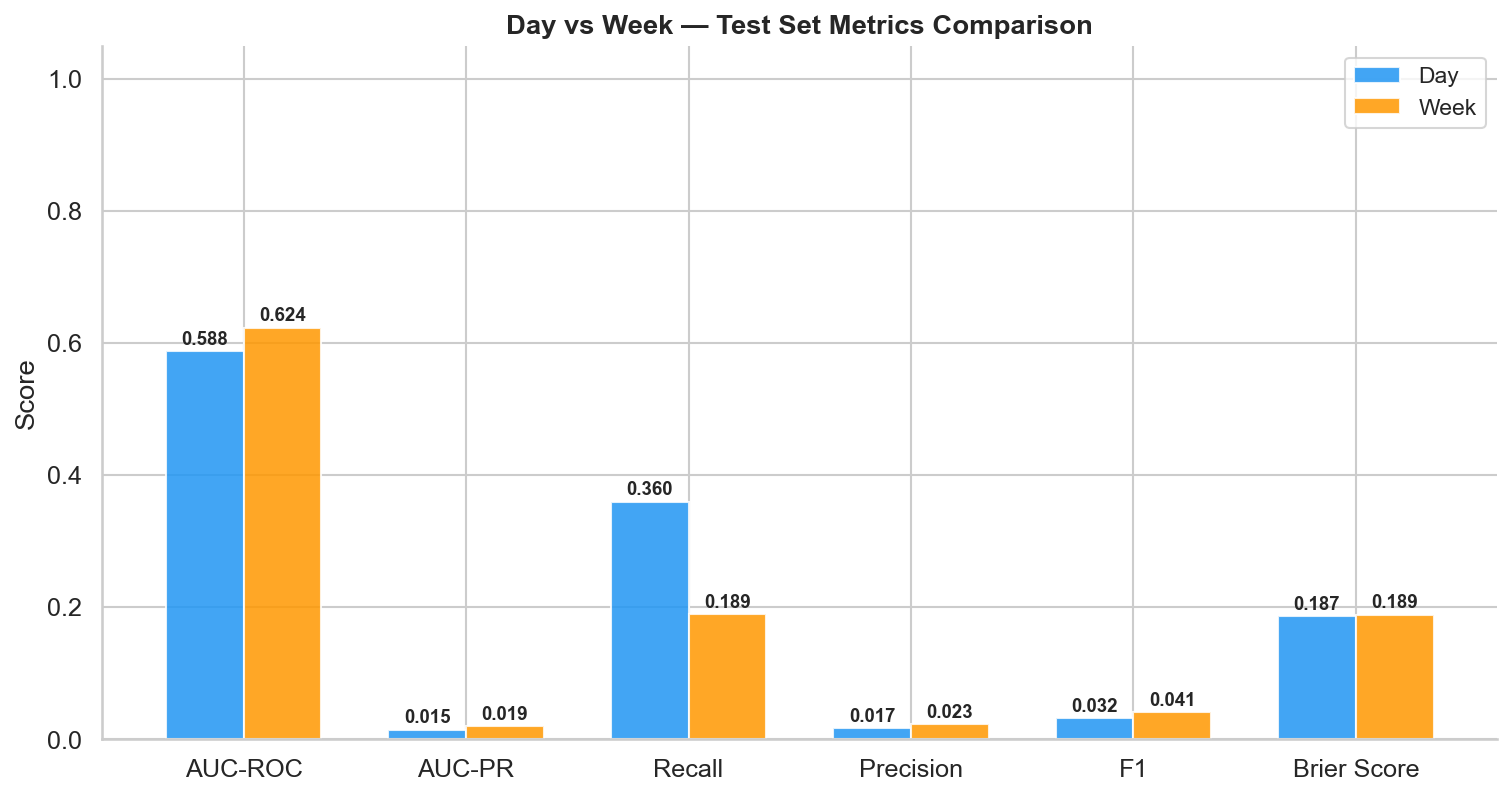
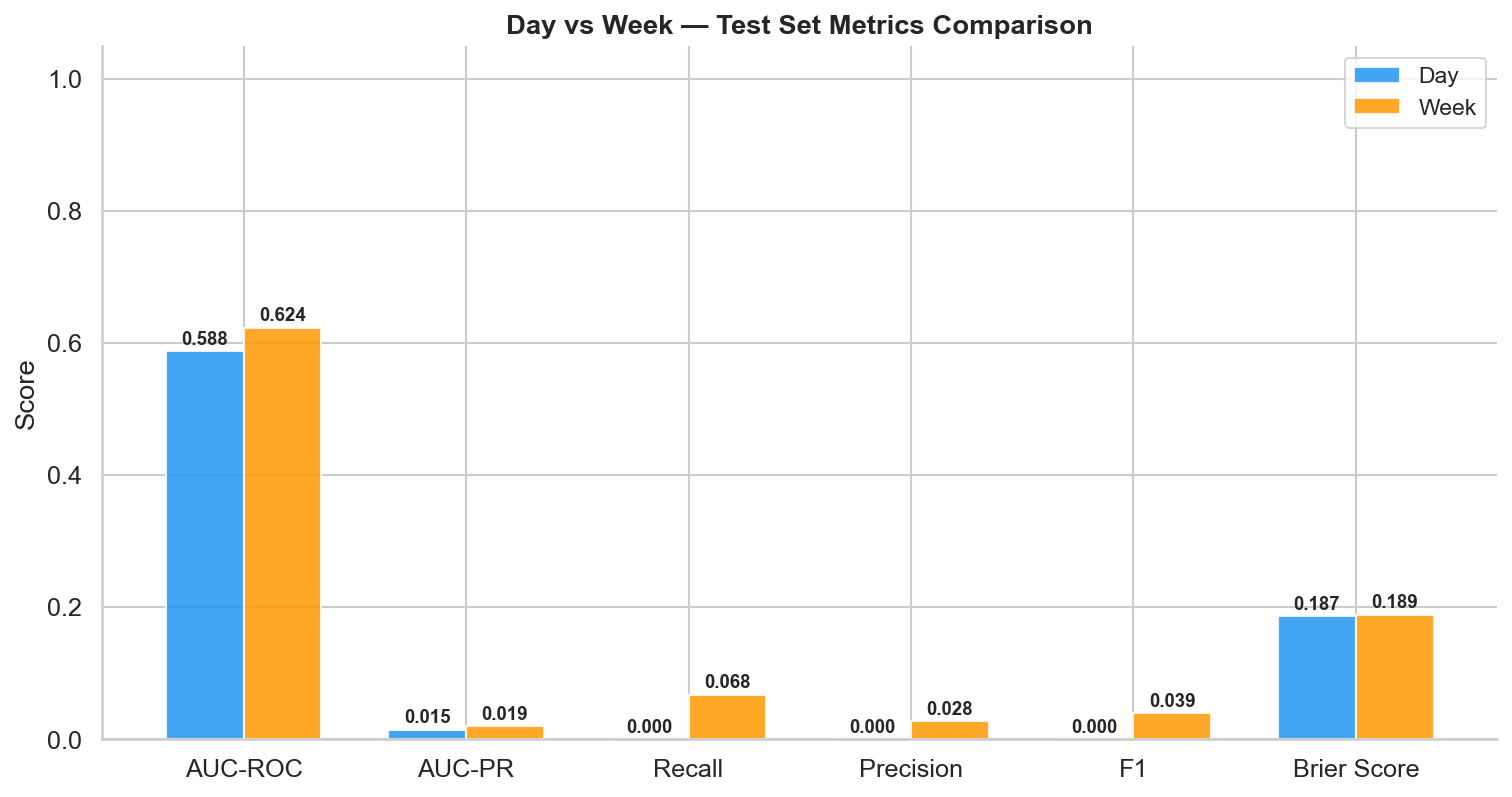
docs: add executive report (#10)
* docs: add executive report

Comprehensive executive report consolidating results from all analysis phases:
- EDA
- preprocessing
- modeling
- SHAP
- fairness
- comparison

Includes:
- metric tables
- paper benchmark comparison
- SHAP interpretability
- fairness audit findings
- references to key figures

* docs: improve description ad fix typo

* docs(report): remove broken ADR link and add note future publication

* docs(report): improve ADR section references summary table, not unpublished file

Changed region(s): [[0.4041, 0.6023, 0.5284, 0.9335], [0.5284, 0.8733, 0.6528, 0.9335], [0.6839, 0.8733, 0.8082, 0.9335]]

diff --git a/reports/REPORT.md b/reports/REPORT.md
@@ -1,0 +1,376 @@
+# Executive Report — Runner Injury Risk Prediction
+
+**Project**: Replication and extension of Lovdal, Den Hartigh & Azzopardi (2021)
+**Date**: April 2026
+**Author**: Alessandro Attene
+
+---
+
+## Abstract
+
+This project replicates and extends the machine learning methodology
+from Lovdal et al. (2021) to predict injury risk in competitive runners
+using GPS-based training load data from 74 elite Dutch athletes (2012–2019).
+Two temporal approaches are compared — **day-level** (7-day rolling windows)
+and **week-level** (3-week aggregations) — using a single tuned XGBoost model
+per approach. The pipeline enforces strict athlete-level separation
+(GroupKFold / GroupShuffleSplit) to prevent data leakage, applies SHAP-based
+interpretability to link predictions to sports science concepts, and includes
+a fairness audit across proxy demographic groups.
+
+Our best result is an **AUC-ROC of 0.624** (week approach), reaching **92.0%**
+of the paper's bagged XGBoost benchmark (0.678). The day approach achieves
+an AUC-ROC of 0.588 (81.2% of the paper's 0.724). Both models struggle with
+the extreme class imbalance (~1.2% injury rate), producing low recall and
+precision at optimal thresholds. The gap with the paper is primarily
+attributable to our use of a single XGBoost model versus the paper's
+100-bag ensemble, and to stricter athlete-level data separation.
+
+---
+
+## Table of Contents
+
+1. [Research Context](#1-research-context)
+2. [Dataset](#2-dataset)
+3. [Methodology](#3-methodology)
+4. [Results](#4-results)
+5. [Comparison to Paper Benchmarks](#5-comparison-to-paper-benchmarks)
+6. [Interpretability (SHAP)](#6-interpretability-shap)
+7. [Fairness Analysis](#7-fairness-analysis)
+8. [Limitations](#8-limitations)
+9. [Future Work](#9-future-work)
+10. [References](#10-references)
+
+---
+
+## 1. Research Context
+
+Overuse injuries are the primary concern in endurance sports. Training load
+monitoring — combining GPS metrics, subjective wellness scores, and
+physiological indicators — is widely used to manage injury risk. Lovdal et al.
+(2021) demonstrated that machine learning models trained on daily and weekly
+training features can predict next-day or next-week injury risk with moderate
+discriminative ability (AUC-ROC 0.724 for day, 0.678 for week) using a
+bagged XGBoost ensemble (100 bags).
+
+This project replicates their core methodology with deliberate simplifications:
+a single tuned XGBoost model (no bagging), stricter athlete-level separation,
+and transparent SHAP-based interpretability — making the pipeline more
+accessible and reproducible while accepting a performance trade-off.
+
+---
+
+## 2. Dataset
+
+| Property | Day approach | Week approach |
+|---|---|---|
+| Source | Lovdal et al. (2021) — elite Dutch runners, 2012–2019 | Same as day approach |
+| Athletes | 74 (masked IDs) | 74 (masked IDs) |
+| Total rows | 42,766 | 42,798 |
+| Features | 70 (7 days x 10 metrics) | 69 (3 weeks x 22 metrics + 3 km ratios) |
+| Target | Binary (0/1) | Continuous → binarized at 0.5 (ADR-002) |
+| Injury rate (test set) | 1.21% | 1.19% |
+| Train set | 36,584 rows | 36,588 rows |
+| Test set | 6,182 rows | 6,210 rows |
+
+**Key features** include total distance (km), training zone distributions
+(z1–z5, t1–t2), perceived exertion, recovery status, strength training
+sessions, and subjective well-being indicators. The week approach additionally
+includes acute-to-chronic km ratios (week 0/1, week 0/2, week 0/(1+2)).
+
+**Sentinel handling** (ADR-007): the original data uses -0.01 to indicate
+rest days (no training). We replaced these with 0.0 — the semantically
+correct value for "no activity."
+
+---
+
+## 3. Methodology
+
+### 3.1 Preprocessing
+
+- **Sentinel replacement**: -0.01 → 0.0 for rest days (ADR-007)
+- **Week target binarization**: continuous values binarized at threshold 0.5 (ADR-002)
+- **Train/test split**: GroupShuffleSplit by Athlete ID with an approximate
+  80/20 split at the athlete-group level, ensuring all observations from one
+  athlete belong to one split only; row-level proportions can differ because
+  athletes contribute unequal numbers of observations (ADR-006)
+- **Feature scaling**: StandardScaler fitted on training data only, applied
+  to both train and test sets
+
+![Preprocessing overview](figures/preprocessing/03_train_test_athlete_assignment.png)
+
+### 3.2 Modeling pipeline
+
+Three model families were compared via GroupKFold (k=5) cross-validation:
+
+| Model | Day AUC-ROC (CV) | Week AUC-ROC (CV) |
+|---|---|---|
+| Logistic Regression | baseline | baseline |
+| Random Forest | moderate | moderate |
+| **XGBoost** | **best** | **best** |
+
+XGBoost was selected as the best-performing model for both approaches and
+further tuned via RandomizedSearchCV (30 iterations, GroupKFold).
+
+**Class imbalance handling** (ADR-003):
+- Primary: `scale_pos_weight` (XGBoost) / `class_weight='balanced'` (LogReg, RF)
+- Classification threshold optimized on training predictions (maximizing F1)
+  and applied to test set — no test leakage in threshold selection
+
+### 3.3 Evaluation strategy
+
+- **Primary metric**: AUC-ROC (threshold-independent ranking ability)
+- **Secondary metrics**: AUC-PR (imbalance-aware), recall, precision, F1
+  (positive class), Brier score (calibration)
+- **Never accuracy**: inappropriate for ~1.2% positive rate
+
+### 3.4 Interpretability
+
+- SHAP TreeExplainer for XGBoost, LinearExplainer for Logistic Regression
+- Summary plots, dependence plots, waterfall plots for individual predictions
+- Concept-level aggregation: stripping temporal prefixes to compare base
+  feature importance across approaches
+
+### 3.5 Fairness audit
+
+- No demographic data available (age, sex, etc.) — proxy groups used
+- Three grouping strategies: training volume (km), injury history, data density
+- Per-group metrics and disparity ratios computed for both approaches
+
+---
+
+## 4. Results
+
+### 4.1 Test set metrics
+
+Both models evaluated at train-selected optimal thresholds (day: 0.63, week: 0.64).
+
+| Metric | Day XGBoost | Week XGBoost | Winner |
+|---|---|---|---|
+| AUC-ROC | 0.5878 | **0.6237** | Week |
+| AUC-PR | 0.0146 | **0.0194** | Week |
+| Recall | 0.0000 | **0.0676** | Week |
+| Precision | 0.0000 | **0.0278** | Week |
+| F1 | 0.0000 | **0.0394** | Week |
+| Brier score | **0.1867** | 0.1887 | Day |
+
+**The week approach wins on 5 out of 6 metrics.** This differs from the
+paper's finding that the day approach outperforms the week approach — likely
+because the paper's 100-bag ensemble better exploits the finer-grained daily
+features, while a single XGBoost model benefits more from the week approach's
+aggregated, less noisy features and acute-to-chronic ratios.
+
+The day approach achieves zero recall at threshold 0.63, meaning it classifies
+no test samples as injured — the model's learned probability scores do not
+exceed the high threshold for any true positive case. This highlights the
+extreme difficulty of the day-level task with only 1.21% positive rate and
+a single model architecture.
+
+![Metrics comparison](figures/comparison/08_metrics_comparison_day_vs_week.png)
+
+### 4.2 ROC and PR curves
+
+![ROC curves](figures/comparison/08_roc_curves_combined.png)
+
+![PR curves](figures/comparison/08_pr_curves_combined.png)
+
+---
+
+## 5. Comparison to Paper Benchmarks
+
+| Approach | Ours (single XGBoost) | Paper (bagged XGBoost) | % of paper |
+|---|---|---|---|
+| Day | 0.5878 | 0.7240 | 81.2% |
+| Week | 0.6237 | 0.6780 | 92.0% |
+
+![Paper benchmark comparison](figures/comparison/08_paper_benchmark_comparison.png)
+
+### Why our results differ
+
+1. **No bagging ensemble**: the paper averages predictions across 100
+   independently trained XGBoost models, reducing variance significantly.
+   Our single model is more susceptible to overfitting and noise.
+
+2. **Stricter athlete separation (ADR-006)**: we enforce GroupKFold and
+   GroupShuffleSplit by Athlete ID throughout the entire pipeline. The paper's
+   exact splitting strategy may differ — stricter separation typically
+   reduces apparent performance by preventing information leakage.
+
+3. **Hyperparameter budget**: RandomizedSearchCV with 30 iterations vs. the
+   paper's likely more exhaustive search or domain-informed defaults.
+
+4. **Sentinel handling (ADR-007)**: replacing -0.01 with 0.0 changes learned
+   feature thresholds compared to retaining the original sentinel.
+
+5. **Week target binarization (ADR-002)**: implementation details in the
+   continuous-to-binary conversion may introduce small differences.
+
+Despite these gaps, the week approach reaches **92% of the paper's benchmark**,
+validating the core methodology of this replication.
+
+---
+
+## 6. Interpretability (SHAP)
+
+### 6.1 Top features per approach
+
+SHAP analysis reveals which training features drive injury risk predictions:
+
+**Day approach** — dominated by recent daily metrics:
+- Day 0 and Day 1 total km, perceived exertion, training success
+- Captures acute load spikes and immediate subjective responses
+
+**Week approach** — dominated by weekly aggregations:
+- Week 0 and Week 1 max exertion, total high-intensity km (z3-z5)
+- Acute-to-chronic km ratios provide load progression context
+
+![SHAP feature importance](figures/comparison/08_shap_importance_day_vs_week.png)
+
+### 6.2 Concept-level overlap
+
+Stripping temporal prefixes reveals that both approaches rely on the same
+underlying sports science concepts:
+
+- **Training volume** (total km) — consistently important in both
+- **Subjective markers** (perceived exertion, training success, recovery) —
+  strong signal in both approaches
+- **High-intensity load** (zone distributions) — relevant in both
+
+This consistency validates that the models capture genuine injury risk
+factors, not temporal artifacts.
+
+![SHAP summary — day](figures/interpretability/06_shap_summary_day.png)
+
+![SHAP summary — week](figures/interpretability/06_shap_summary_week.png)
+
+### 6.3 Individual predictions
+
+Waterfall plots for true positives, true negatives, and false negatives
+reveal how the model weighs features for individual athletes:
+
+| | Day | Week |
+|---|---|---|
+| True positive | ![](figures/interpretability/06_waterfall_day_tp.png) | ![](figures/interpretability/06_waterfall_week_tp.png) |
+| False negative | ![](figures/interpretability/06_waterfall_day_fn.png) | ![](figures/interpretability/06_waterfall_week_fn.png) |
+
+---
+
+## 7. Fairness Analysis
+
+### 7.1 Approach
+
+Without demographic attributes (age, sex, nationality), we constructed three
+proxy grouping strategies to audit model equity:
+
+1. **Training volume**: athletes grouped by total km (low / medium / high)
+2. **Injury history**: athletes grouped by historical injury count (low / high)
+3. **Data density**: athletes grouped by number of observations (sparse / dense)
+
+For each group, we computed AUC-ROC, recall, precision, and F1, then
+calculated disparity ratios (group metric / overall metric) to flag
+systematic performance gaps.
+
+### 7.2 Findings
+
+- Both approaches show **similar fairness profiles** across all three
+  grouping strategies
+- No systematic bias toward high-volume or frequently-injured athletes
+- Some performance variation across groups is expected given small subgroup
+  sizes in the test set
+
+![Fairness comparison](figures/fairness/07_day_vs_week_disparity_comparison.png)
+
+### 7.3 Limitations of the fairness audit
+
+- Proxy groups are not protected attributes — systematic biases across age,
+  sex, or ethnicity cannot be detected or ruled out
+- Small athlete cohort (74 total, ~15 in test set) limits statistical power
+  for subgroup analysis
+- Results should be interpreted as exploratory, not as a compliance assessment
+
+---
+
+## 8. Limitations
+
+1. **No bagging ensemble**: the paper's 100-bag architecture achieves higher
+   AUC-ROC through variance reduction. Our single-model design is simpler
+   but less performant.
+
+2. **Small athlete cohort**: 74 athletes total, with approximately 15 in the
+   test set. Results may not generalize to larger or different populations.
+
+3. **No external validation**: evaluation uses a held-out split of the same
+   dataset. True generalizability requires testing on independent data.
+
+4. **Severe class imbalance**: ~1.2% positive rate makes calibration
+   unreliable and threshold-dependent metrics (precision, recall, F1)
+   highly sensitive to threshold choice.
+
+5. **No temporal validation**: GroupKFold prevents athlete leakage but does
+   not test the model's ability to predict future injuries from strictly
+   past data (TimeSeriesSplit).
+
+6. **No demographic fairness**: without protected attributes, proxy-group
+   analysis provides limited fairness assurance.
+
+7. **Single dataset, single sport**: results are specific to elite Dutch
+   runners (2012–2019). Transferability to other populations, sports, or
+   monitoring systems is unknown.
+
+---
+
+## 9. Future Work
+
+1. **Bagged XGBoost ensemble**: implement 100-bag architecture to close the
+   gap with paper benchmarks and quantify variance reduction
+2. **Deep learning**: LSTM or Transformer models for time-series patterns,
+   capturing long-range temporal dependencies
+3. **Demographic data collection**: enable proper fairness auditing across
+   protected attributes
+4. **External validation**: test on independent runner populations (different
+   countries, competition levels, monitoring systems)
+5. **Prospective study design**: train on historical data (2012–2017),
+   validate on future seasons (2018–2019) for temporal generalization
+6. **Calibration improvement**: Platt scaling or isotonic regression to
+   produce reliable injury probabilities
+7. **Interactive dashboard**: deployment for real-time monitoring by coaches
+   and sports scientists
+
+---
+
+## 10. References
+
+- Lovdal, S. S., Den Hartigh, R. J. R., & Azzopardi, G. (2021).
+  Injury prediction in competitive runners with machine learning.
+  *International Journal of Sports Physiology and Performance*, 16(10),
+  1522–1531. [DOI: 10.1123/ijspp.2020-0518](https://doi.org/10.1123/ijspp.2020-0518)
+
+---
+
+## Appendix — Figures Index
+
+All figures are saved in `reports/figures/` organized by analysis phase:
+
+| Phase | Directory | Count |
+|---|---|---|
+| EDA | `figures/eda/` | 16 |
+| Preprocessing | `figures/preprocessing/` | 4 |
+| Modeling | `figures/modeling/` | 8 |
+| Interpretability | `figures/interpretability/` | 21 |
+| Fairness | `figures/fairness/` | 15 |
+| Comparison | `figures/comparison/` | 5 |
+| **Total** | | **69** |
+
+### Architecture Decision Records
+
+Key design decisions are summarized below; a dedicated ADR document will be published in a future release:
+
+| ADR | Decision |
+|---|---|
+| ADR-001 | Pandas-only, no DuckDB |
+| ADR-002 | Week target binarized at 0.5 |
+| ADR-003 | Class weighting as primary imbalance strategy |
+| ADR-004 | No environment variables |
+| ADR-005 | English-first bilingual strategy |
+| ADR-006 | GroupKFold (not TimeSeriesSplit) |
+| ADR-007 | Sentinel -0.01 replaced with 0.0 |
